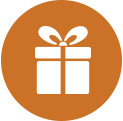
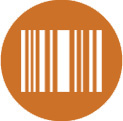
reemissão de boletos

Changed region(s): [[0.1707, 0.1983, 0.8293, 0.7934], [0.0, 0.0, 0.4878, 1.0], [0.5122, 0.0, 1.0, 1.0]]

diff --git a/Pages/home.php b/Pages/home.php
@@ -74,13 +74,13 @@
         </div>
 
         <div class="icons">
-            <a class="link" href="#planos">
+            <a class="link" href="https://www.santander.com.br/br/resolva-on-line/reemissao-de-boleto-vencido" target="_blank">
                 <img class="imgIcons" src="img/iconsHome/iconPlanos.jpg">
 
                 <div class="texto">
-                    <p class="titleMaior">Os melhores planos</p>
+                    <p class="titleMaior">Reemissão de boletos</p>
 
-                    <p class="info">Oferecemos internet de qualidade com preços excelentes.</p>
+                    <p class="info">Atualize seus boletos!</p>
                 </div>
             </a>
         </div>
